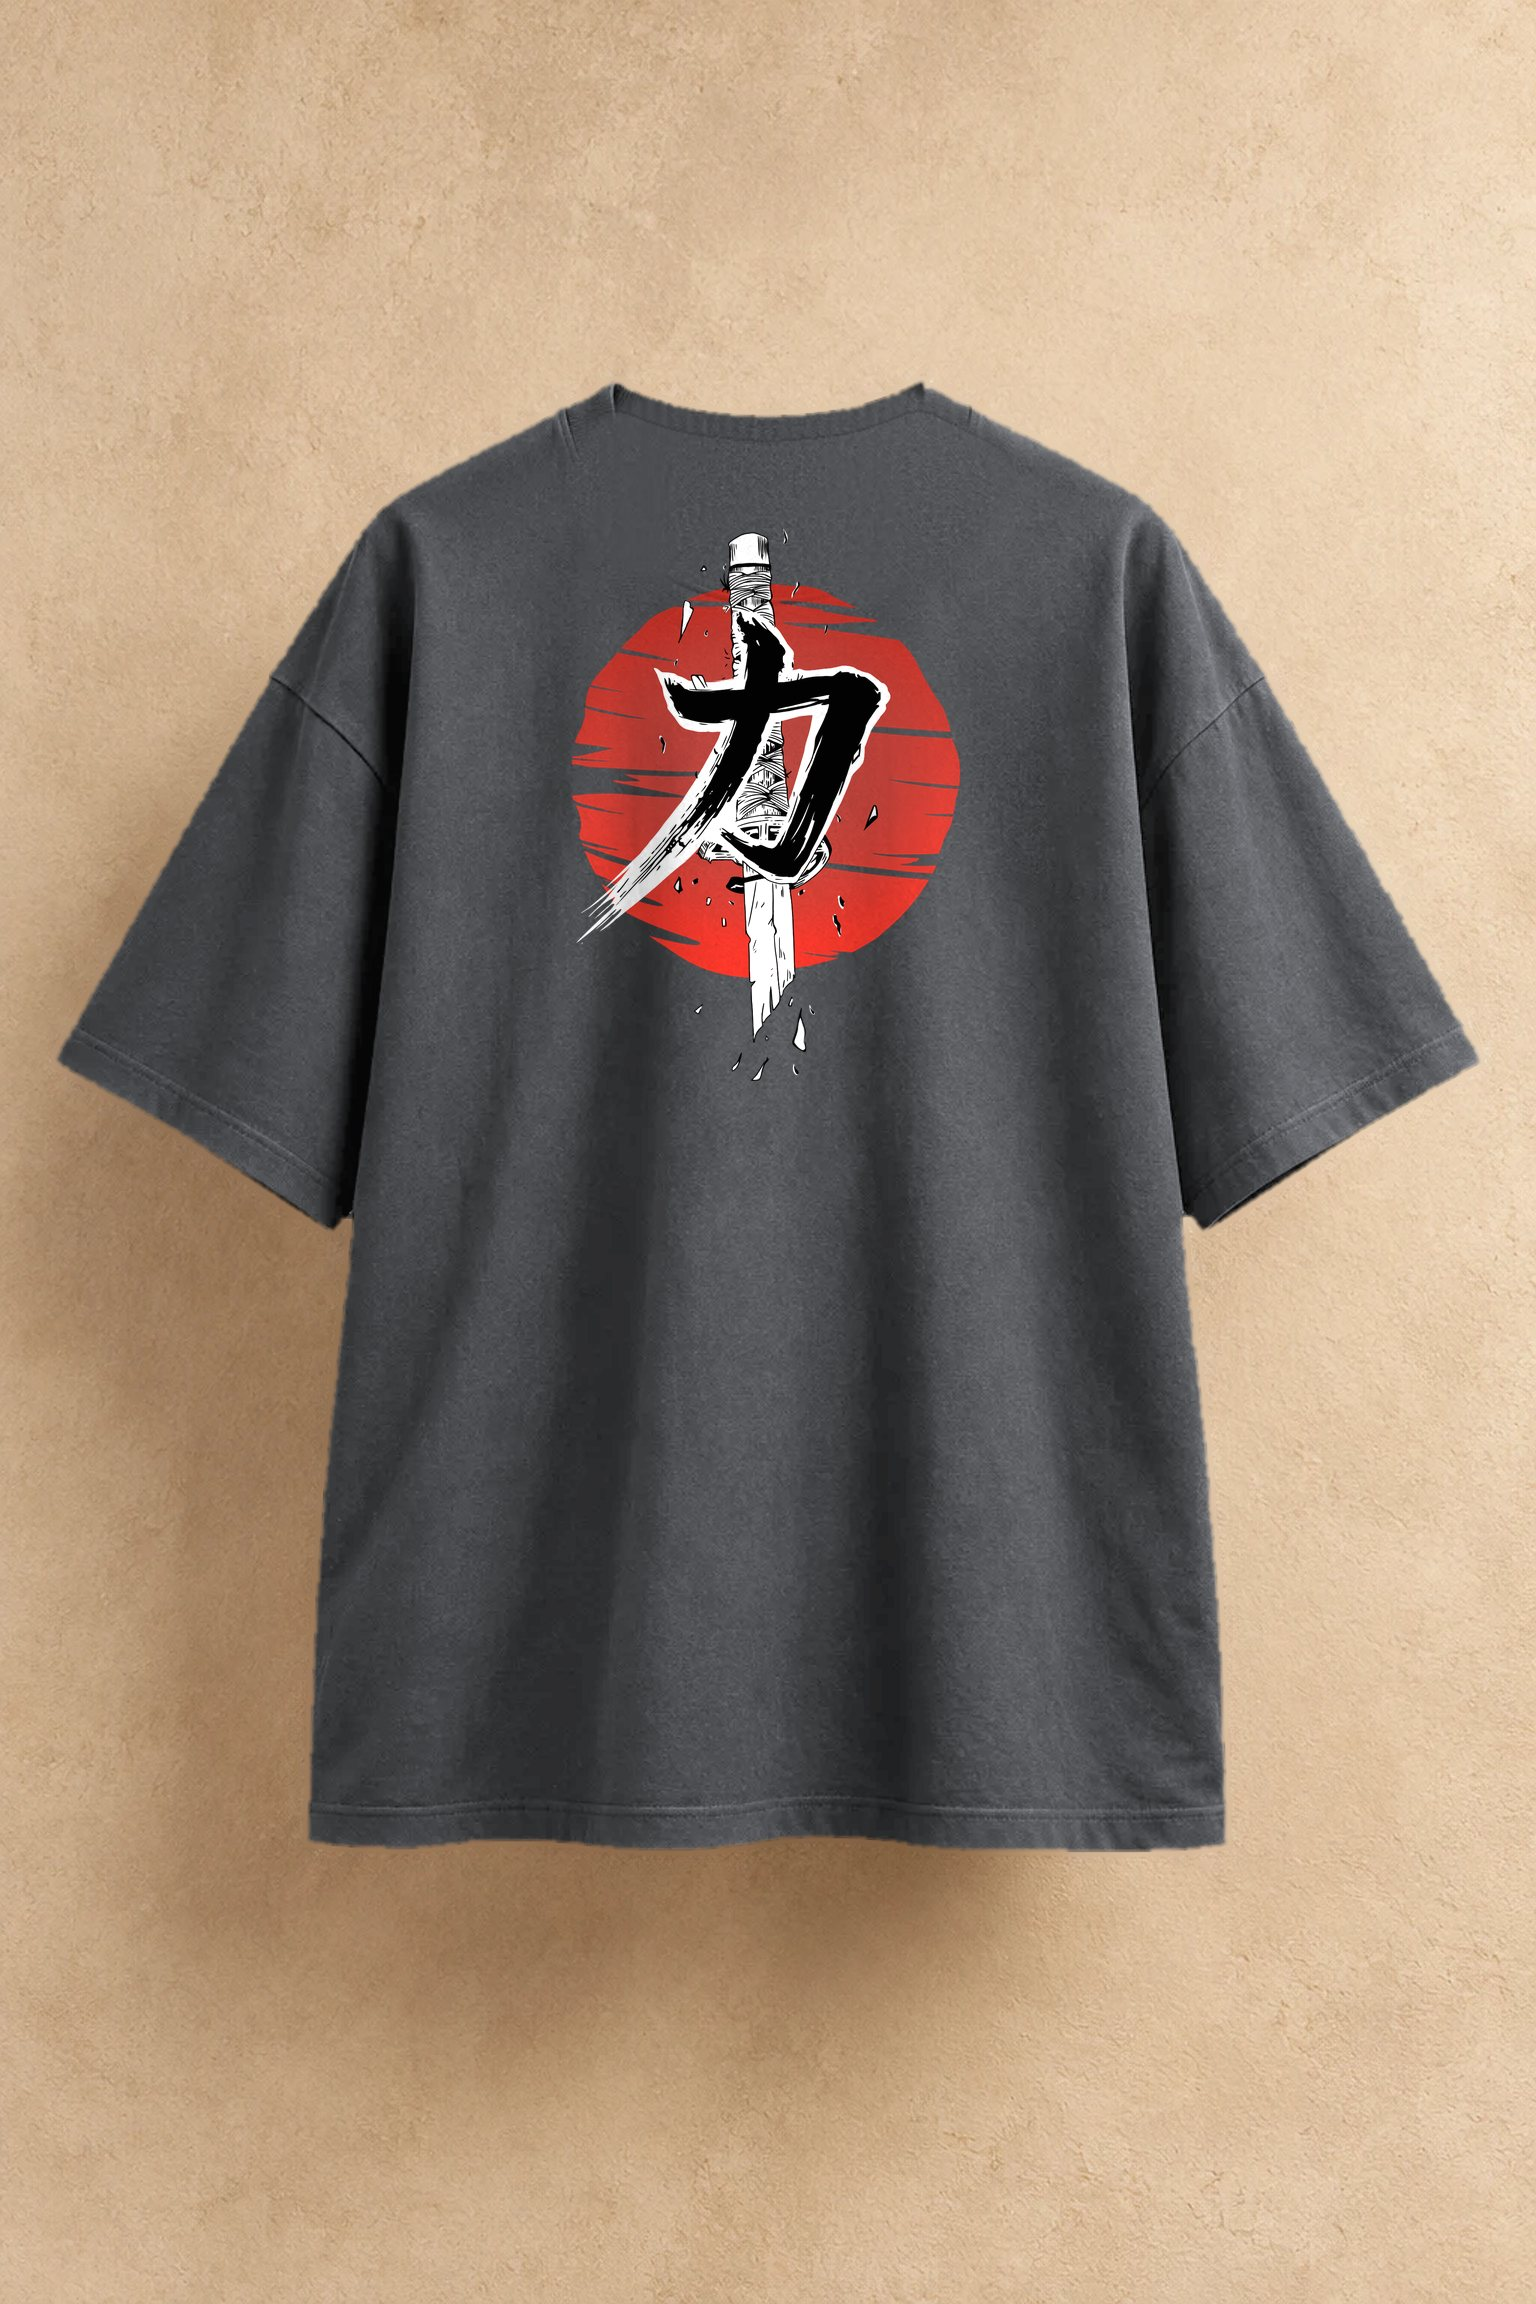
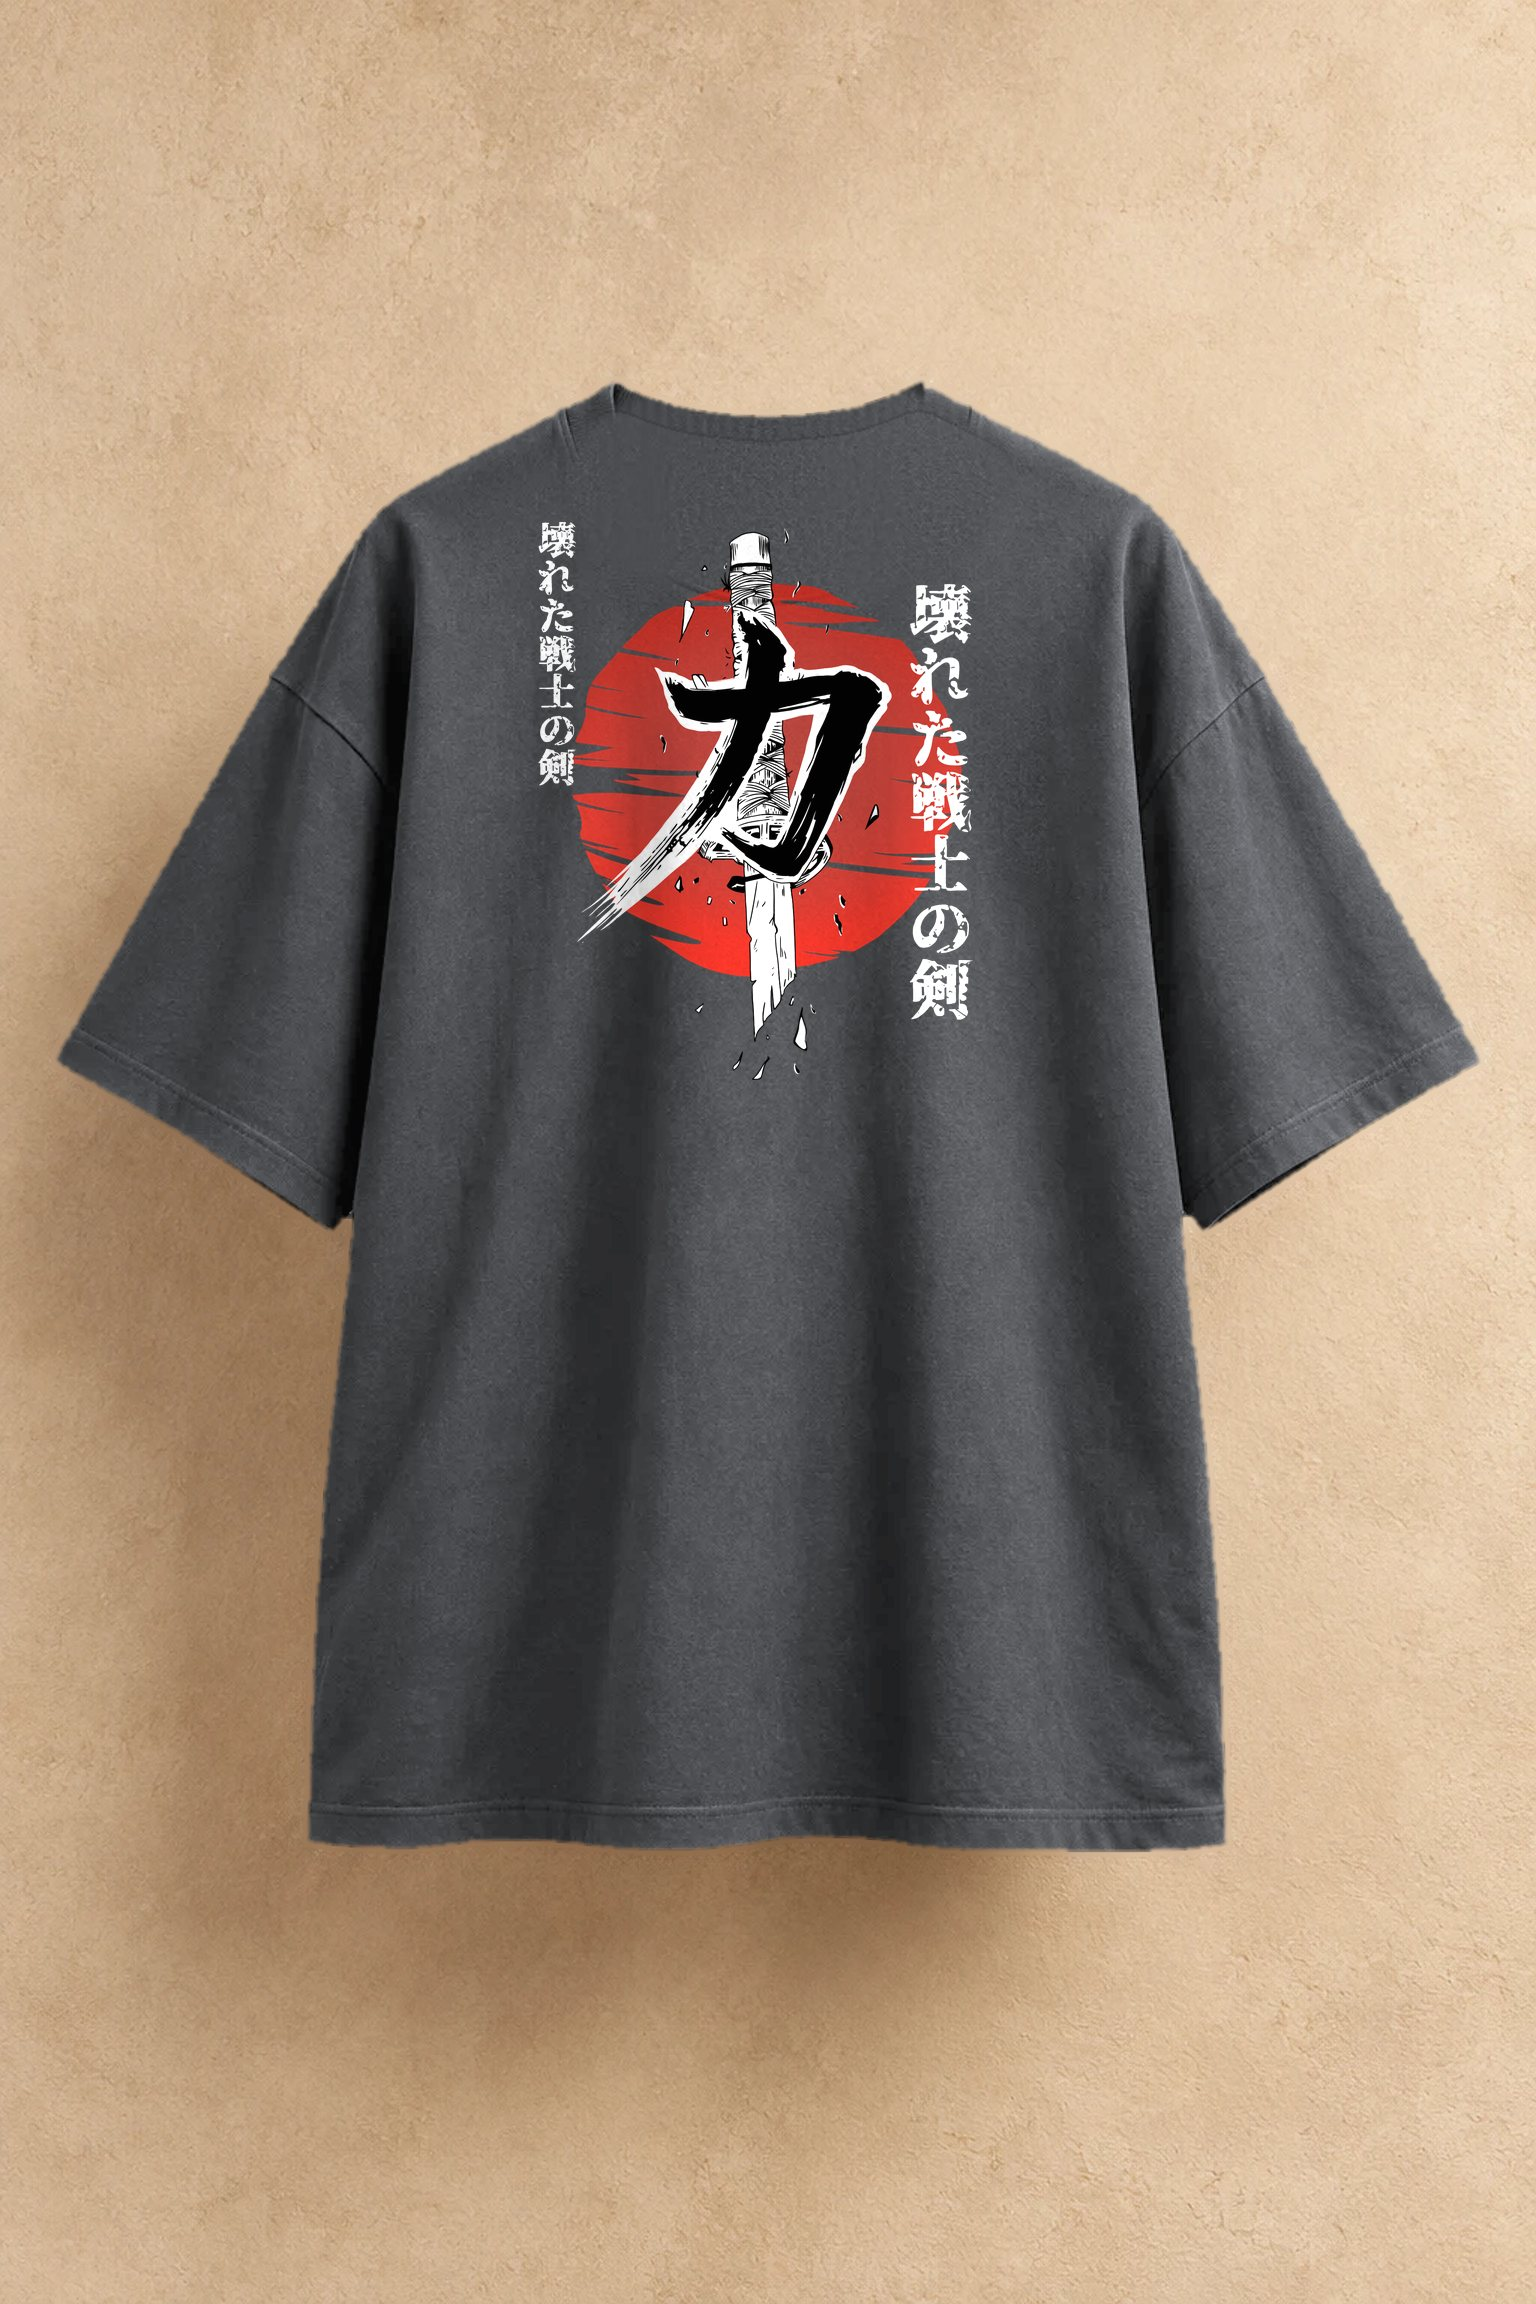
Fallen Sword back side text, white Oni Blade text on dark tees, drop unsold colours
- Fallen Sword backs now include both side-text columns, laid out like the owner's sample
  (white text on dark tees, black text on light tees).
- Oni Blade backs on dark tees use the same artwork with the Japanese text in white.
- Removed lookbook photos and old tee images in colours that are not sold
  (purple, green, pink, red, yellow, light grey, blue and others).

Claude-Session: https://claude.ai/code/session_01Xyee1nokqV7xdAtp2gFYaY

diff --git a/src/catalog.ts b/src/catalog.ts
@@ -74,10 +74,10 @@ const animeWallScroll = {
   Black: asset("anime/oni-wall-scroll.png"),
 };
 
-const fallenSwordLookbook = [asset("lookbook/fallen-sword-street.png"), asset("lookbook/fallen-sword-parking.png"), asset("lookbook/fallen-sword-black-model.png"), asset("lookbook/fallen-sword-white-model.png"), asset("lookbook/fallen-sword-purple-model.png")];
-const oniSwordLookbook = [asset("lookbook/oni-sword-street.png"), asset("lookbook/oni-sword-parking.png"), asset("lookbook/oni-sword-black-model.png"), asset("lookbook/oni-sword-white-model.png"), asset("lookbook/oni-sword-purple-model.png")];
-const oniMaskLookbook = [asset("lookbook/oni-mask-street.png"), asset("lookbook/oni-mask-parking.png"), asset("lookbook/oni-mask-black-model.png"), asset("lookbook/oni-mask-white-model.png"), asset("lookbook/oni-mask-purple-model.png")];
-const roseLookbook = [asset("lookbook/rose-street.png"), asset("lookbook/rose-parking.png"), asset("lookbook/rose-black-model.png"), asset("lookbook/rose-white-model.png"), asset("lookbook/rose-purple-model.png")];
+const fallenSwordLookbook = [asset("lookbook/fallen-sword-street.png"), asset("lookbook/fallen-sword-parking.png"), asset("lookbook/fallen-sword-black-model.png")];
+const oniSwordLookbook = [asset("lookbook/oni-sword-street.png"), asset("lookbook/oni-sword-parking.png"), asset("lookbook/oni-sword-black-model.png"), asset("lookbook/oni-sword-white-model.png")];
+const oniMaskLookbook = [asset("lookbook/oni-mask-street.png"), asset("lookbook/oni-mask-parking.png"), asset("lookbook/oni-mask-black-model.png")];
+const roseLookbook = [asset("lookbook/rose-street.png"), asset("lookbook/rose-parking.png"), asset("lookbook/rose-black-model.png")];
 
 const fallenSwordHoodie = { White: asset("hoodies/fallen-sword-white-new.png"), Black: asset("hoodies/fallen-sword-black-new.png"), Gray: asset("hoodies/fallen-sword-gray-new.png") };
 const oniSwordHoodie = { Black: asset("hoodies/oni-sword-black-new.png"), Gray: asset("hoodies/oni-sword-gray-new.png"), White: asset("hoodies/oni-sword-white-new.png") };

diff --git a/tools/tee-mockups/build.py b/tools/tee-mockups/build.py
@@ -19,9 +19,12 @@ COLOURS = {  # name: (hex, ink) — ink "dark" = garment is dark, use the black-
 
 DESIGNS = {
     "fallen-sword": {"front": {"dark": "fronts/fronts-10x10/fallen-sword-front-option2-black-shirt.png", "light": "fronts/fronts-10x10/fallen-sword-front-option2-white-shirt.png"},
-                      "back": {"dark": "backs/backs-30x38/fallen-sword-back-black-shirt.png", "light": "backs/backs-30x38/fallen-sword-back-white-shirt.png"}},
+                      # back print with the two side-text columns (layout from the owner's sample), 31.86 x 38.59 cm
+                      "back": {"dark": "new/fallen-sword-back-with-side-text-black-shirt.png", "light": "new/fallen-sword-back-with-side-text-white-shirt.png"},
+                      "back_canvas_cm": (31.86, 38.59), "back_offset_cm": (-0.93, -0.59)},
     "oni-blade": {"front": {"dark": "fronts/fronts-10x10/oni-blade-front.png", "light": "fronts/fronts-10x10/oni-blade-front.png"},
-                   "back": {"dark": "backs/backs-30x38/oni-blade-back.png", "light": "backs/backs-30x38/oni-blade-back.png"}},
+                   # dark garments: the same back with the small Japanese text in white
+                   "back": {"dark": "new/oni-blade-back-white-text.png", "light": "backs/backs-30x38/oni-blade-back.png"}},
     "oni-mask": {"front": {"dark": "fronts/fronts-10x10/oni-mask-front-black-shirt.png", "light": "fronts/fronts-10x10/oni-mask-front-white-shirt.png"},
                   "back": {"dark": "backs/backs-30x38/oni-mask-back-black-shirt.png", "light": "backs/backs-30x38/oni-mask-back-white-shirt.png"}},
     "rose": {"front": {"dark": "fronts/fronts-10x10/rose-front-black-shirt.png", "light": "fronts/fronts-10x10/rose-front-white-shirt.png"},
@@ -176,7 +179,9 @@ def main():
                     place(img, ratio, art, (cw, ch), cx - cw * PX_PER_CM / 2, cy - ch * PX_PER_CM / 2)
                 else:
                     cw, ch = BACK["canvas_cm"]
-                    place(img, ratio, art, (cw, ch), BACK["centre_x"] - cw * PX_PER_CM / 2, BACK["top"])
+                    left, top = BACK["centre_x"] - cw * PX_PER_CM / 2, BACK["top"]
+                    dx, dy = DESIGNS[slug].get("back_offset_cm", (0, 0))
+                    place(img, ratio, art, DESIGNS[slug].get("back_canvas_cm", (cw, ch)), left + dx * PX_PER_CM, top + dy * PX_PER_CM)
                 name = f"{colour.lower().replace(' ', '-')}-{view}.jpg"
                 (out / slug).mkdir(parents=True, exist_ok=True)
                 Image.fromarray(np.clip(img, 0, 255).astype(np.uint8)).save(out / slug / name, quality=84, optimize=True, progressive=True)

diff --git a/tools/tee-mockups/README.md b/tools/tee-mockups/README.md
@@ -11,3 +11,4 @@ python3 -I tools/tee-mockups/build.py <reference-tee.webp> <print-files-folder> 
 - Front prints are placed as a 10×10 cm left-chest canvas, back prints as a 30×38 cm canvas centred ~9 cm below the collar.
 - Dark garments use the "black-shirt" print versions, light garments the "white-shirt" versions.
 - To add a colour: add it to `COLOURS` here, then to `teeColourHexes` and `teeColoursByWeight` in `src/catalog.ts`, and copy the new images into `public/catalog/tees/`.
+- `new/` holds print files prepared from the owner's files: the Fallen Sword back with both side-text columns, and the Oni Blade back with white Japanese text for dark garments.
